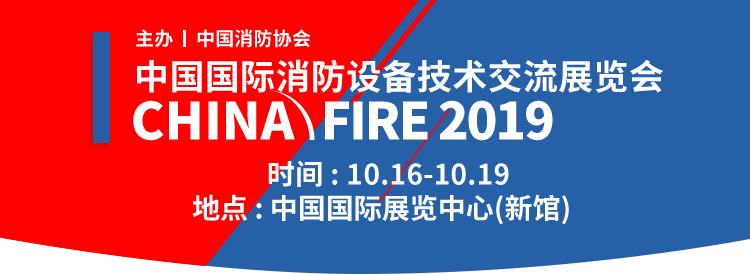
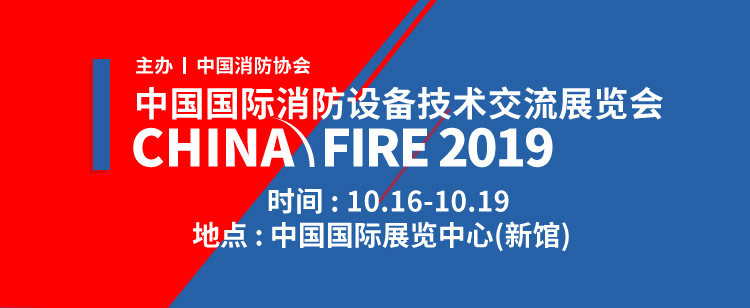
1.首页<论坛 > 改为 活动日程 2.首页<论坛> 下面的推荐 也加上那个 ">"符号 3.行业资讯的banner图片没有换

diff --git a/pages/news/page.js b/pages/news/page.js
@@ -2,7 +2,7 @@ const { globalData: { http, regeneratorRuntime } } = getApp()
 Page({
     data: {
         imgUrls: [
-            '/images/index/active.png'
+            '/images/index/title.png'
         ],
         lastSeq: '',
         info_list: [],
